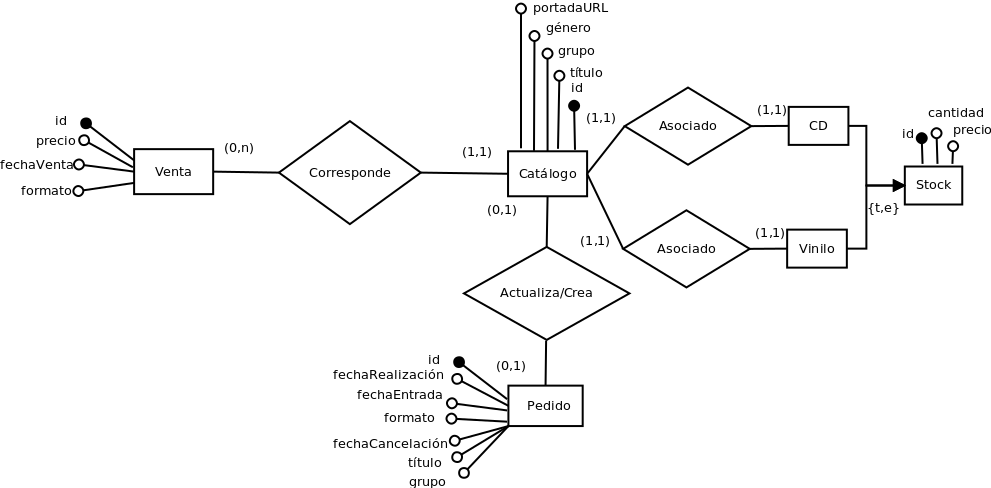
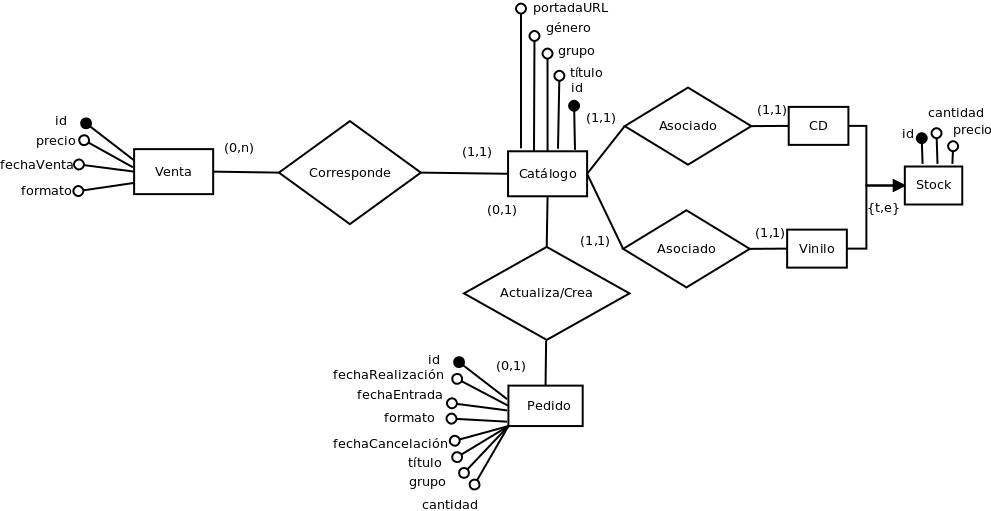
Añade esquemas de operación

Changed region(s): [[0.0, 0.0, 0.8779, 0.707], [0.333, 0.6762, 0.6054, 1.0], [0.8779, 0.2152, 1.0, 0.4303]]

diff --git a/doc/memoria.md b/doc/memoria.md
@@ -436,7 +436,44 @@ actualiza su stock al recibir un pedido. Caso opuesto, se crea en catálogo.
 
 \imgn{1.1}{./diagramas/diagrama_final.png}
 
+## Operaciones de datos
+
+### O1: Alta de un pedido
+
+Se da de alta un pedido con un título de disco, un grupo y un formato
+
+### O2: Cancelación de una venta
+
+Se elimina la información de una venta de base de datos
+
+### O3: Listado de ventas
+
+Se efectúa un listado con el título y el grupo del álbum asociados a una venta,
+el formato físico de la venta, el precio y la fecha de la operación.
+
+### O4: Modificación de stock
+
+Permite modificar tanto los datos de catálogo (foto de portada, título, grupo,
+género) con el stock (precio y cantidad) tanto en CD y Vinilo para un determinado
+álbum.
+
 ## Esquemas de operación y navegación
+
+### O1: Alta de un pedido
+
+\imgn{0.4}{./diagramas/op_alta_pedido.png}
+
+### O2: Cancelación de una venta
+
+\imgn{0.3}{./diagramas/op_cancelacion_venta.png}
+
+### O3: Listado de ventas
+
+\imgn{0.8}{./diagramas/op_listado_ventas.png}
+
+### O4: Modificación de stock
+
+\imgn{0.8}{./diagramas/op_modificacion_stock.png}
 
 ## Diseño lógico
 
@@ -457,16 +494,10 @@ actualiza su stock al recibir un pedido. Caso opuesto, se crea en catálogo.
 **Pedido**(\pk{id Pedido}, Cantidad, Formato, Fecha
 Realización, Fecha Entrada, Fecha Cancelación, Título, Grupo)
 
+## Diseño físico
 ### Disparadores PL/SQL
 
-## Diseño físico
-## Descripción de la solución implementada
-
-
-
-
-
-# Implementación
+# Descripción de la solución implementada
 ## Tecnologías usadas
 ## Guía de instalación
 
